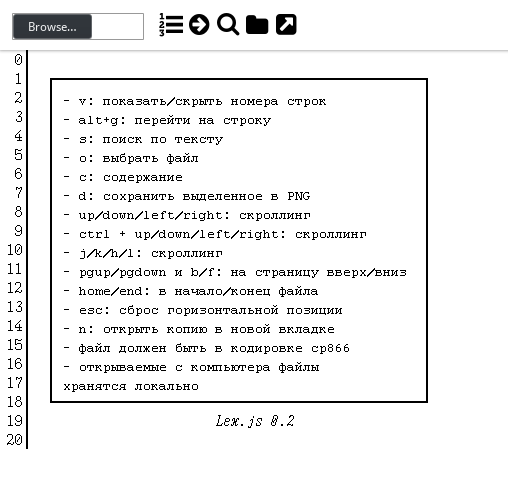
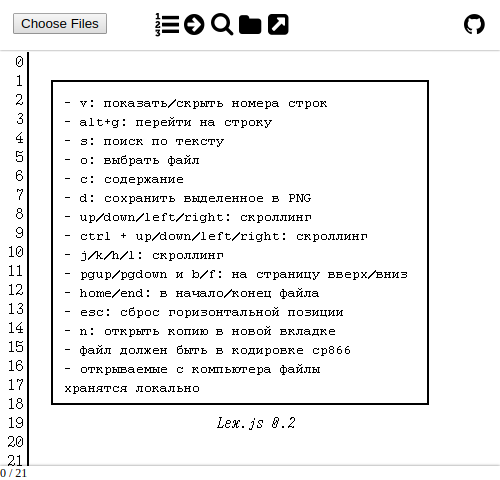
added: test for file selection

Changed region(s): [[0.09, 0.1562, 0.87, 0.9062], [0.0, 0.0312, 0.6, 1.0], [0.93, 0.0312, 0.99, 0.0938]]

diff --git a/test/ui.js b/test/ui.js
@@ -1,0 +1,58 @@
+const test = require('ava');
+const puppeteer = require('puppeteer');
+const config = require('../config-server.json');
+
+test('Update screenshot', async t => {
+  const browser = await puppeteer.launch({ defaultViewport: { width: 500, height: 480 }});
+  const page = await browser.newPage();
+  await page.goto(`http://127.0.0.1:${config.port}/`);
+  await page.waitForSelector('#preloader', { hidden: true });
+  await page.screenshot({path: 'preview.png'});
+  await browser.close();
+  t.pass();
+});
+
+test('Local file selection', async t => {
+  try {
+    const options = {
+      defaultViewport: {
+        width: 1024,
+        height: 768
+      },
+    };
+
+    const browser = await puppeteer.launch(options);
+    const page = await browser.newPage();
+    await page.goto(`http://127.0.0.1:${config.port}/`);
+    await page.waitForSelector('#preloader', { hidden: true });
+
+    // At the beginning, there are no files.
+    const cntFiles0 = await page.$eval(
+      '#file-list',
+      fileList => fileList.childNodes.length
+    );
+    t.is(cntFiles0, 0);
+
+    // But after selecting a file,
+    const fileSelect = await page.$('#file-select');
+    fileSelect.uploadFile('./src/app.js');
+
+    // #file-list becomes visible
+    await page.waitForSelector('#file-list', { visible: true });
+
+    // and gets a new child node
+    const newFiles = await page.$eval(
+      '#file-list',
+      fileList => [].map.call(fileList.childNodes, el => el.textContent)
+    );
+
+    // with appropriate name.
+    t.deepEqual(newFiles, [ 'app.js' ]);
+
+    await browser.close();
+
+    t.pass();
+  } catch (e) {
+    t.fail(e);
+  }
+});

diff --git a/test/coders.js b/test/coders.js
@@ -40,14 +40,3 @@ test('conversion between binary arrays and strings', t => {
     t.is(binArray2String(string2BinArray(str)), str.length * 8 + ':' + str, str);
   });
 });
-
-test('headless chrome instantiation', async t => {
-  try {
-    const browser = await puppeteer.launch();
-    await browser.close();
-
-    t.pass();
-  } catch {
-    t.fail();
-  }
-});
